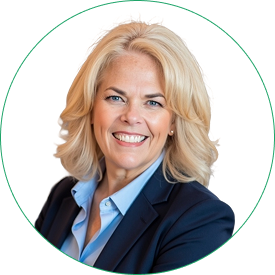
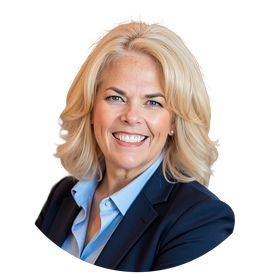
Team: smooth photo ring edges for Annette and Steven; correct spelling to Rebecca Knudson

diff --git a/about.html b/about.html
@@ -119,8 +119,8 @@
             <a class="btn btn--ghost" href="https://www.linkedin.com/in/steven-mann-wealth-management/" target="_blank" rel="noopener noreferrer">LinkedIn →</a>
           </div>
           <div class="team-card">
-            <div class="team-photo"><img src="./assets/rebecca.png" alt="Rebecca Knudsen" width="275" height="275" loading="lazy"></div>
-            <h3>Rebecca Knudsen</h3>
+            <div class="team-photo"><img src="./assets/rebecca.png" alt="Rebecca Knudson" width="275" height="275" loading="lazy"></div>
+            <h3>Rebecca Knudson</h3>
             <p class="location">Nashville, TN</p>
             <a class="phone" href="tel:6152199240">615.219.9240</a>
             <a class="btn btn--ghost" href="https://www.linkedin.com/in/rebecca-knudson-grnnashville/" target="_blank" rel="noopener noreferrer">LinkedIn →</a>

diff --git a/index.html b/index.html
@@ -140,8 +140,8 @@
             <p class="location">Laguna Beach, CA</p>
           </div>
           <div class="team-card">
-            <div class="team-photo"><img src="./assets/rebecca.png" alt="Rebecca Knudsen" width="275" height="275" loading="lazy"></div>
-            <h3>Rebecca Knudsen</h3>
+            <div class="team-photo"><img src="./assets/rebecca.png" alt="Rebecca Knudson" width="275" height="275" loading="lazy"></div>
+            <h3>Rebecca Knudson</h3>
             <p class="location">Nashville, TN</p>
           </div>
         </div>

diff --git a/contact.html b/contact.html
@@ -103,7 +103,7 @@
                   <a href="tel:6262530717">626.253.0717</a>
                 </div>
                 <div class="quick-team-item">
-                  <span class="name">Rebecca Knudsen</span>
+                  <span class="name">Rebecca Knudson</span>
                   <a href="tel:6152199240">615.219.9240</a>
                 </div>
               </div>
